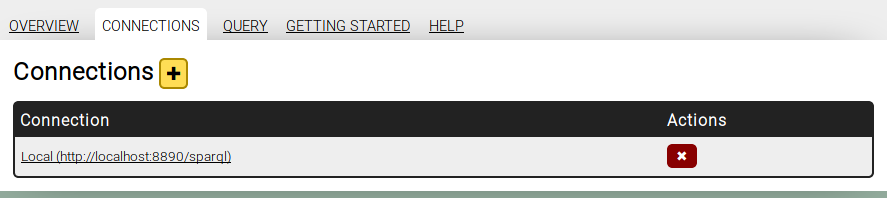
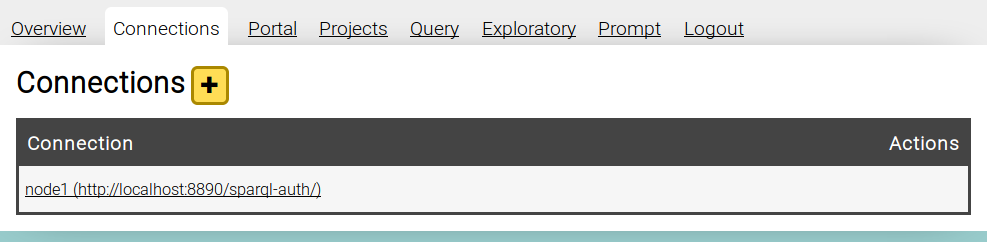
doc: Update the web interface images.
* doc/figures/web-connections.png: Update file.
* doc/figures/web-exploratory.png: Update file.
* doc/figures/web-query.png: Update file.
* doc/web-interface.tex: Revise the “projects” description.

diff --git a/doc/web-interface.tex b/doc/web-interface.tex
@@ -176,15 +176,11 @@ sg-web --configuration-file=file.xml
     \label{fig:web-connections}
   \end{figure}
 
-  When providing a username and password for a connection, it will attempt
-  to connect using \emph{digest authentication}.
-
 \section{Managing projects}
 
-  When interacting with large datasets, it may be useful to confine queries to
-  a subset of the dataset.  On the \emph{projects} page, subsets can be made
-  based on \emph{sample names}.  These sample names are automatically extracted
-  from VCF files, and can also be extracted from tabular data.
+  Projects are a loosely-defined way to group queries and to collaborate with
+  other users.  Projects provide a way to manage access to \emph{graphs}, and
+  to share previously-executed queries among project members.
 
   Marking a project as ``active'' indicates that queries executed using the web
   interface relate to that project.  See also section \ref{sec:query-history}
